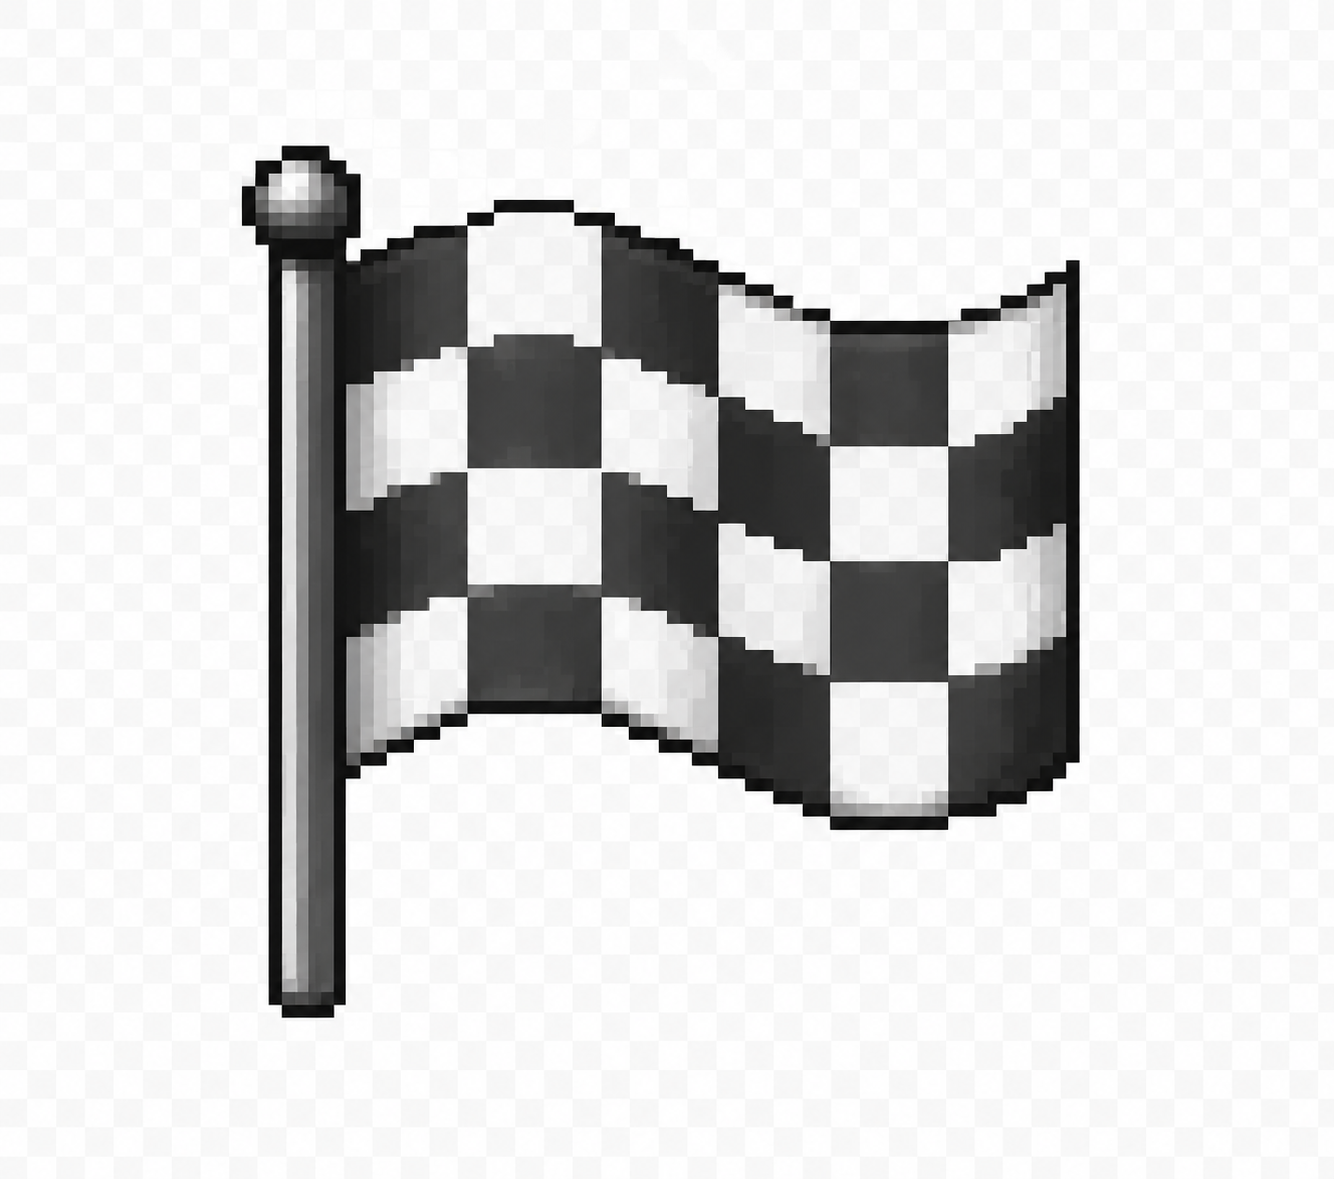
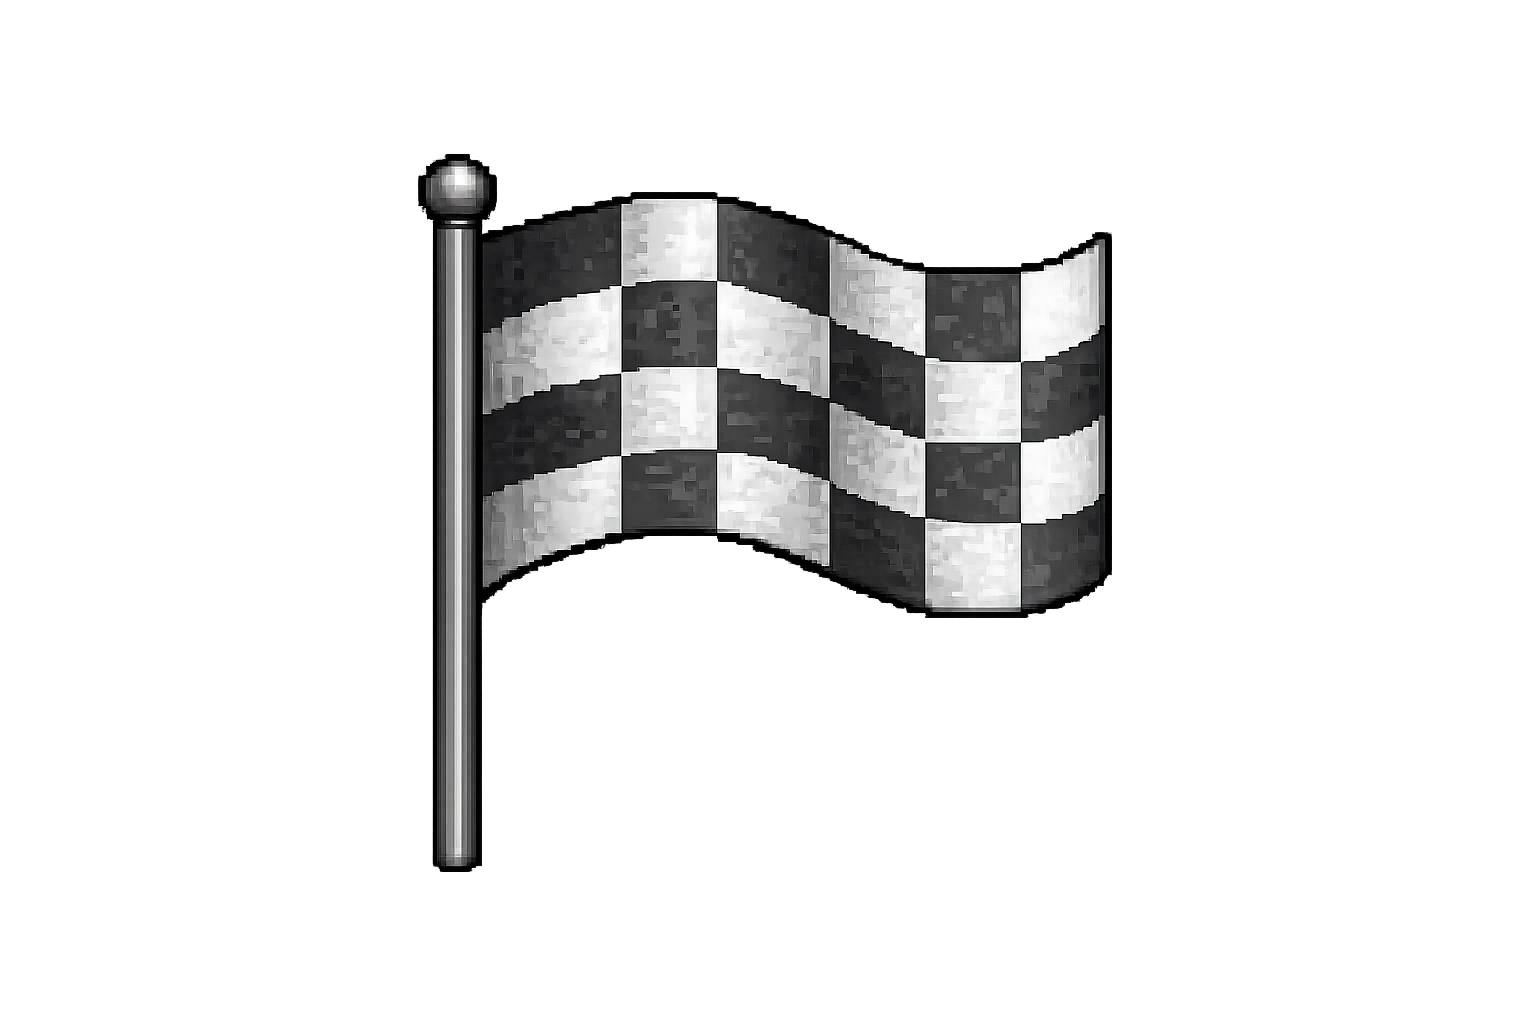
Bigger timer/stickers, fix Add-Card tool not working outside a column
- Draggable timer widget 3x bigger; stickers 2x bigger (delete button
  scaled to match)
- Add-Card sidebar tool now always places a card where you click,
  clamped into the nearest column if you clicked outside every zone's
  strip -- it's a deliberate placement action, unlike a bare
  double-click, which still no-ops there
- Updated F1 flag artwork

Claude-Session: https://claude.ai/code/session_01YEkLMF6scj6wGUmpLcWwbP

Changed region(s): [[0.1537, 0.125, 0.8298, 0.875]]

diff --git a/team-manager-ui/src/app/features/fun/retro/retro-single-canvas.component.ts b/team-manager-ui/src/app/features/fun/retro/retro-single-canvas.component.ts
@@ -103,9 +103,9 @@ const REACTION_EMOJIS = ['👍', '❤️', '😂', '🎉', '🤔'];
     .cz-fit mat-icon { font-size:16px;width:16px;height:16px;line-height:16px; }
     .cz-divider { width:1px;height:16px;background:rgba(255,255,255,0.15);margin:0 2px;flex-shrink:0; }
     .retro-token {
-      position:absolute;width:64px;height:64px;
+      position:absolute;width:128px;height:128px;
       display:flex;align-items:center;justify-content:center;
-      font-size:42px;line-height:1;cursor:grab;user-select:none;
+      font-size:84px;line-height:1;cursor:grab;user-select:none;
       filter:drop-shadow(0 2px 3px rgba(0,0,0,0.4));
       transition:transform .1s;
     }
@@ -113,10 +113,10 @@ const REACTION_EMOJIS = ['👍', '❤️', '😂', '🎉', '🤔'];
     .retro-token.dragging { cursor:grabbing;z-index:50;transition:none; }
     .retro-token.placing-ghost { pointer-events:none;opacity:0.85;z-index:200; }
     .retro-token-del {
-      position:absolute;top:-6px;right:-6px;width:16px;height:16px;
+      position:absolute;top:-12px;right:-12px;width:32px;height:32px;
       display:flex;align-items:center;justify-content:center;
       border-radius:50%;background:rgba(0,0,0,0.7);color:rgba(255,255,255,0.7);
-      border:none;font-size:12px;line-height:1;cursor:pointer;opacity:0;
+      border:none;font-size:24px;line-height:1;cursor:pointer;opacity:0;
       transition:opacity .12s;
     }
     .retro-token:hover .retro-token-del { opacity:1; }
@@ -124,16 +124,16 @@ const REACTION_EMOJIS = ['👍', '❤️', '😂', '🎉', '🤔'];
     /* Draggable clock so the timer can be parked wherever's convenient on the board instead
        of only living in a header popover -- position is local to this viewer, not persisted. */
     .timer-widget {
-      position:absolute;display:flex;align-items:center;gap:10px;
-      padding:12px 22px;border-radius:32px;cursor:grab;user-select:none;
-      background:rgba(20,20,24,0.9);border:1px solid rgba(255,255,255,0.15);
-      color:rgba(255,255,255,0.85);font-size:1.4rem;font-weight:700;font-variant-numeric:tabular-nums;
+      position:absolute;display:flex;align-items:center;gap:30px;
+      padding:36px 66px;border-radius:64px;cursor:grab;user-select:none;
+      background:rgba(20,20,24,0.9);border:3px solid rgba(255,255,255,0.15);
+      color:rgba(255,255,255,0.85);font-size:4.2rem;font-weight:700;font-variant-numeric:tabular-nums;
       box-shadow:0 3px 10px rgba(0,0,0,0.35);z-index:20;
     }
     .timer-widget:active { cursor:grabbing; }
     .timer-widget.placing-ghost { pointer-events:none;opacity:0.85;z-index:200; }
     .timer-widget-danger { border-color:rgba(239,83,80,0.5);color:#ef5350; }
-    .timer-widget-icon { font-size:26px;width:26px;height:26px;line-height:26px; }
+    .timer-widget-icon { font-size:78px;width:78px;height:78px;line-height:78px; }
     .sticky {
       position:absolute;box-sizing:border-box;
       width:240px;min-height:220px;
@@ -844,7 +844,10 @@ export class RetroSingleCanvasComponent implements AfterViewInit {
     if (this.timerNeedsPlacement()) { this.confirmTimerPlacement(); return; }
     if (this.activeTool() !== 'add-card') return;
     if ((e.target as HTMLElement).closest('.sticky')) return;
-    this.placeCardAt(e);
+    // Unlike a bare double-click (see below), picking the Add-Card tool and clicking is a
+    // deliberate "put a card down" action -- it should always succeed, clamped into the
+    // nearest column if you clicked outside every zone's strip, not silently do nothing.
+    this.placeCardAt(e, true);
     this.activeTool.set('select');
   }
 
@@ -855,7 +858,7 @@ export class RetroSingleCanvasComponent implements AfterViewInit {
   onCanvasDoubleClick(e: MouseEvent): void {
     if (this.placingStickerEmoji() || this.timerNeedsPlacement()) return;
     if ((e.target as HTMLElement).closest('.sticky')) return;
-    this.placeCardAt(e);
+    this.placeCardAt(e, false);
   }
 
   private worldPointFromEvent(e: MouseEvent): { x: number; y: number } {
@@ -864,14 +867,19 @@ export class RetroSingleCanvasComponent implements AfterViewInit {
     return { x: (e.clientX - rect.left - v.panX) / v.zoom, y: (e.clientY - rect.top - v.panY) / v.zoom };
   }
 
-  private placeCardAt(e: MouseEvent): void {
-    const { x: worldX, y: worldY } = this.worldPointFromEvent(e);
-    // Outside every zone's actual strip (the blank margin past the last column, or before the
-    // first) -- zoneIndexForX would silently clamp this into whichever zone is nearest, which
-    // reads as "the card I placed way over here jumped into some other column." Just no-op
-    // instead of creating a card wherever the pointer happened to land.
+  /** @param clampToNearestZone When false (a bare double-click), a click outside every zone's
+   *  actual strip (the blank margin past the last column, or before the first) is a no-op --
+   *  zoneIndexForX would otherwise silently clamp it into whichever zone is nearest, which
+   *  reads as "the card I placed way over here jumped into some other column." When true (the
+   *  explicit Add-Card tool), that same clamp is exactly what you want instead: the click was
+   *  a deliberate "add a card" and should always land somewhere, not do nothing. */
+  private placeCardAt(e: MouseEvent, clampToNearestZone: boolean): void {
+    let { x: worldX, y: worldY } = this.worldPointFromEvent(e);
     const stripWidth = this.cols().length * (this.ZONE_WIDTH + this.ZONE_GAP) - this.ZONE_GAP;
-    if (worldX < 0 || worldX > stripWidth) return;
+    if (worldX < 0 || worldX > stripWidth) {
+      if (!clampToNearestZone) return;
+      worldX = Math.max(0, Math.min(stripWidth, worldX));
+    }
     this.pendingCard.set({ x: worldX, y: worldY, text: '' });
   }
 